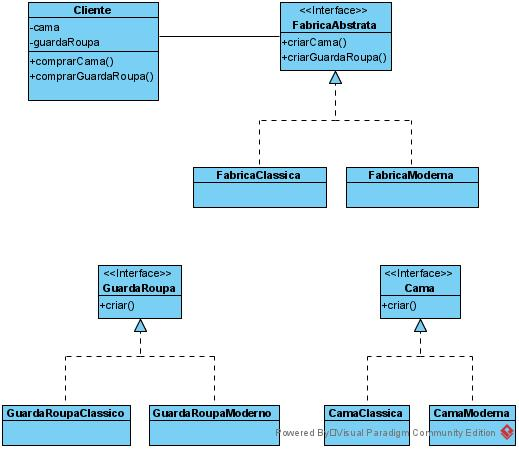
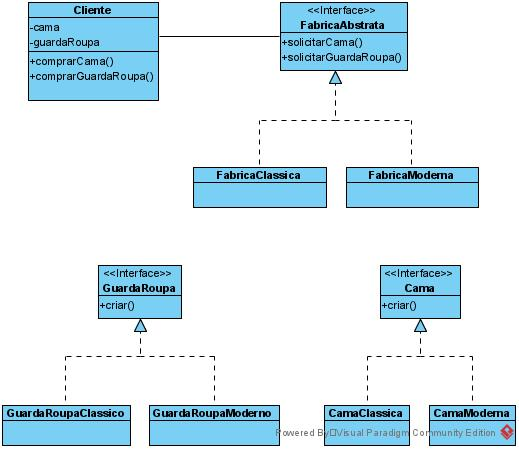
atualizando docs e criando README.md

Changed region(s): [[0.5549, 0.0, 0.8015, 0.1559]]

diff --git a/README.md b/README.md
@@ -1,0 +1,5 @@
+## Factory Method - Java
+
+Projeto criado para exemplificação de uso do padrão de projeto **Abstract Factory** utilizando a linguagem Java.
+
+Realizado durante a disciplina de Arquitetura e Projeto de Software.
